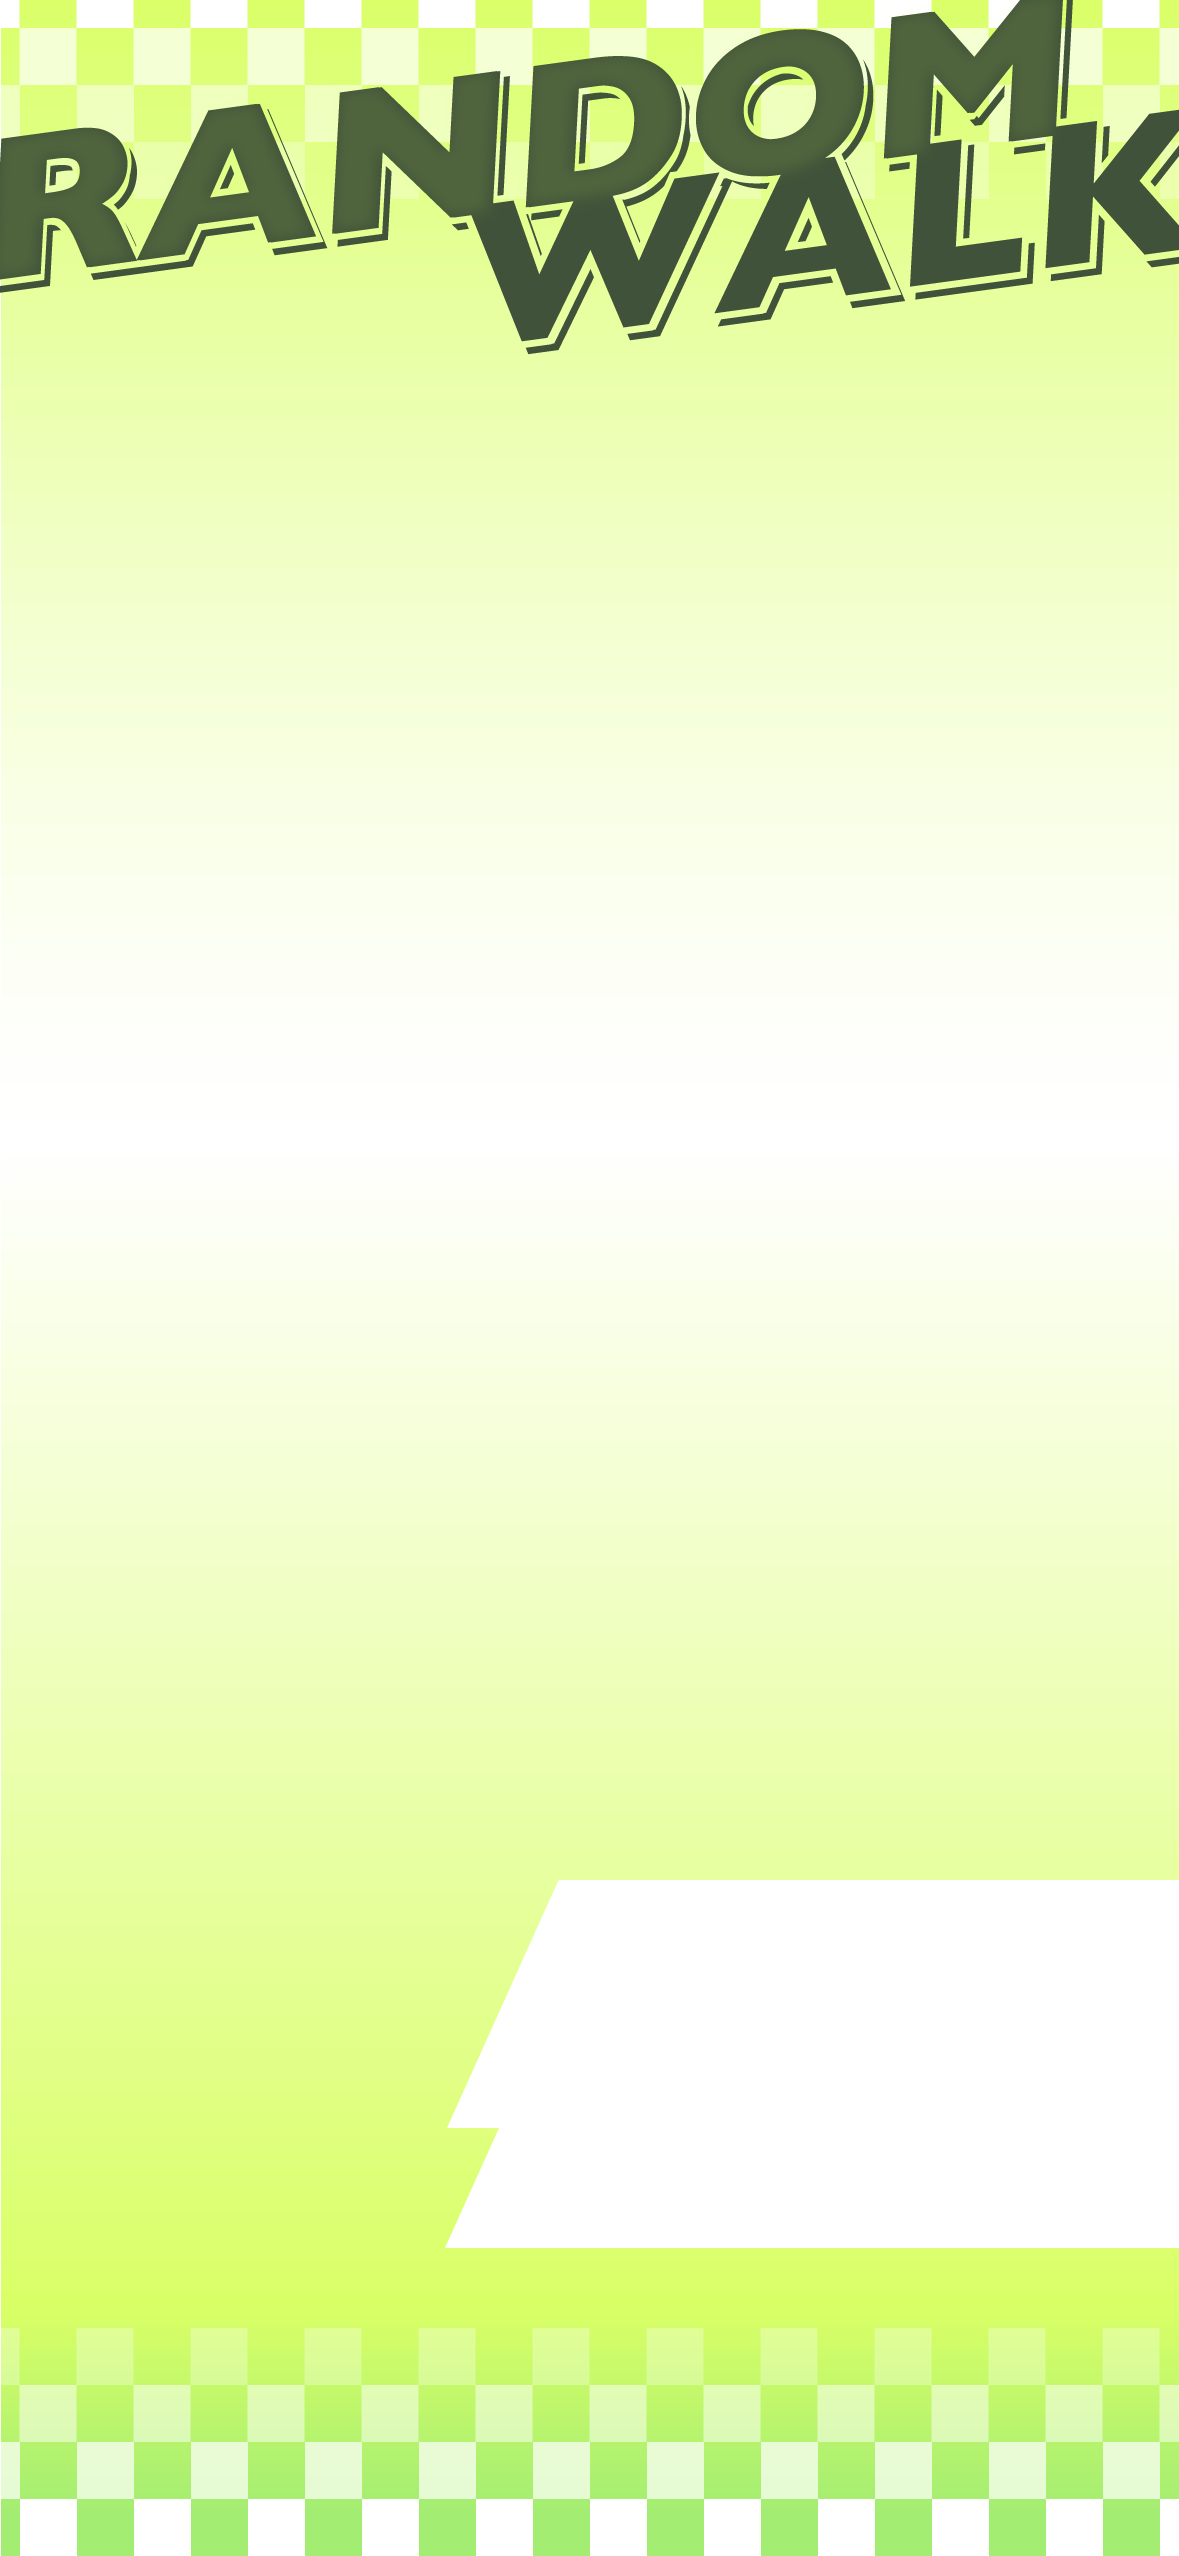
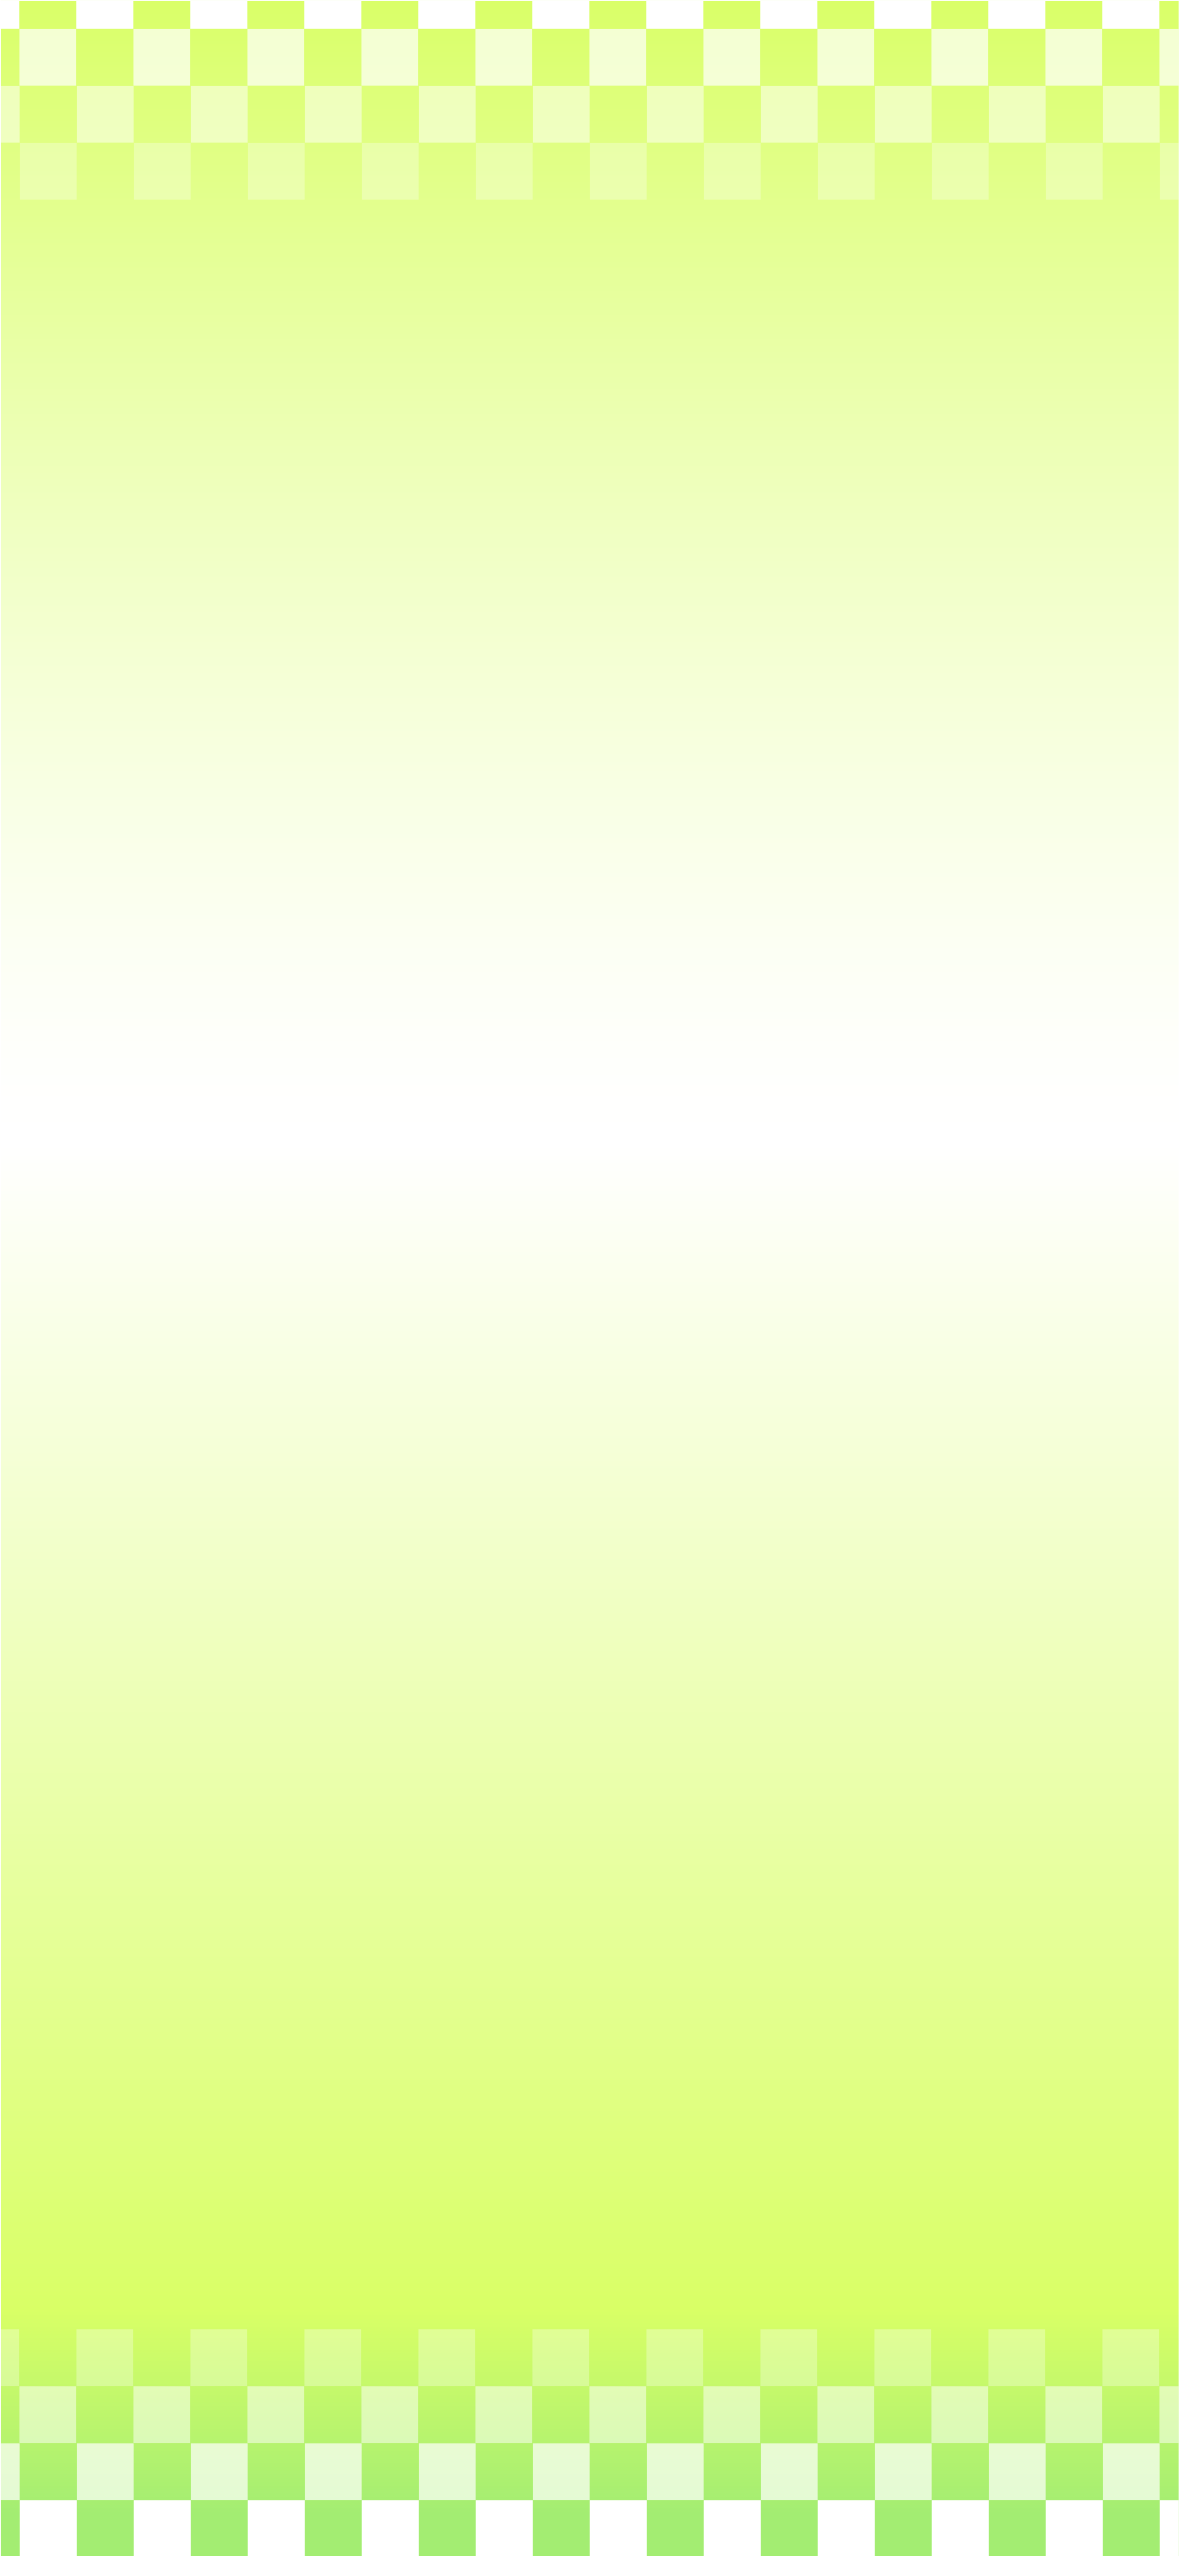
Add files via upload

Changed region(s): [[0.3664, 0.7109, 1.0, 0.8963], [0.0, 0.0, 1.0, 0.1545]]

diff --git a/index.html b/index.html
@@ -2,103 +2,165 @@
 <html lang="ja">
 <head>
   <meta charset="UTF-8" />
-  <meta name="viewport" content="width=device-width, initial-scale=1.0">
-  <title>Random Walk</title>
-  <link rel="manifest" href="/my-walking-app/manifest.json">
+  <meta name="viewport" content="width=device-width, initial-scale=1.0, viewport-fit=cover">
+  <title>おさんぽアプリ</title>
+  <link rel="manifest" href="manifest.json">
+  <link rel="apple-touch-icon" href="icon-192.png">
+  <meta name="apple-mobile-web-app-capable" content="yes">
+  <meta name="apple-mobile-web-app-status-bar-style" content="default">
 
   <style>
     html, body {
       margin: 0;
-      padding: 0;
-      font-family: 'Gill Sans', 'Gill Sans MT', Calibri, 'Trebuchet MS', sans-serif;
-      height: 100vh;  /* 画面の高さに合わせる */
-      color: #2e3d26;
-      text-align: center;
-
-      background-image: url("background.png");
-      background-repeat: no-repeat;   /* 背景は1回だけ */
-      background-position: center top;
-      background-size: cover;          /* 画面いっぱいに広げる */
-      background-attachment: fixed;  /* スクロールしても背景を動かさない */
-
+      padding: env(safe-area-inset-top) env(safe-area-inset-right) env(safe-area-inset-bottom) env(safe-area-inset-left);
+      height: 100vh;
+      font-family: sans-serif;
+      background: url(background.png);
+      overflow: hidden;
     }
 
-    #map {
-      height: 585px;
+    .screen {
+      display: none;
+      flex-direction: column;
+      align-items: center;
+      justify-content: center;
+      height: 100%;
+      text-align: center;
+      padding: 20px;
+    }
+
+    .screen.active {
+      display: flex;
+    }
+    
+    .tittle-route {
+      width: 90%;
+    }
+
+
+
+    #map, #mapFinal {
       width: 90%;
       max-width: 500px;
-      margin: 105px auto 18px auto;
-      border-radius: 20px;
+      height: 80vh;
+      margin: 10px 0;
+      border-radius: 16px;
       box-shadow: 0 4px 10px rgba(0,0,0,0.2);
+
     }
 
     .info-area {
       display: flex;
       justify-content: center;
-      gap: 40px;
-      align-items: center;
-      font-size: 16px;
-      font-weight: bold;
-      margin: 18px;
+      gap: 10px;
+      margin: 20px 0;
     }
 
     .info-block {
-      display: flex;
-      align-items: center;
-      gap: 8px;
+      text-align: center;
     }
 
-    .info-block img {
-      width: 28px;
-      height: 28px;
+    .km-back{
+      width:10vw;
+      height: auto;
+      max-width: 160px;
     }
 
-    .info-block span {
-      font-size: 32px;
+    .steps-back{
+      width:10vw;
+      height: auto;
+      max-width: 160px;
+    }
+    
+    .km-box,.steps-box {
+      margin: 20px 110px 0px 0px;
+      color: #dffe0f;
+      font-size: 50px;
+      font-weight: bold;
+      text-align: right;
     }
 
-    button {
-      background-color: #2e3d26;
-      color: white;
-      padding: 14px 32px;
-      border: none;
-      border-radius: 32px;
-      font-size: 18px;
+
+    .info-btn{
+      margin: 0px 100px;
+    }
+
+    .icon-btn {
+      width: 45%;
+      margin: 10px;
       cursor: pointer;
-      margin-bottom: 40px;
     }
 
-    button:hover {
-      background-color: #405c35;
+    #endBtn {
+      padding: 14px 28px;
+      border-radius: 28px;
+      border: none;
+      margin-top: 20px;
     }
   </style>
 </head>
 <body>
 
+  <!-- スタート画面 -->
+  <div id="startScreen" class="screen active">
+    <img src="tittle-logo.png" id="tittle-logo" class="start_logo" >
+    <img src="start_button.png" id="startRouteBtn" class="icon-btn" alt="ルートを作成する">
+  </div>
 
-  <div id="map">MAP</div>
-
-  <div class="info-area">
-    <div class="info-block">
-      <img src="distance.svg" alt="距離" />
-      <div><span id="distance">0.0</span> KM</div>
+  <!-- ルート作成画面 -->
+  <div id="routeScreen" class="screen">
+    <img src="tittle-logo.png" class="tittle-route" id="tittle-logo">
+    <div id="map">MAP</div>
+    <div class="info-area">
+      <div class="info-block">
+        <img src="km-back.png" alt="距離表示" class="stats-img" />
+        <div class="km-box" id="distance">0.00</div>
+      </div>
+      <div class="info-block">
+        <img src="steps-back.png" alt="距離表示" class="stats-img" />
+        <div class="steps-box" id="steps">0</div>
+      </div>
     </div>
-    <div class="info-block">
-      <img src="steps.svg" alt="歩数" />
-      <div><span id="steps">0</span> STEP</div>
+    <div class="info-btn">
+      <img src="change_route.png" id="changeRouteBtn" class="icon-btn" alt="ルート変更">
+      <img src="confirm_route.png" id="confirmRouteBtn" class="icon-btn" alt="決定">
     </div>
   </div>
 
-  <button id="startBtn">ルート作成</button>
+  <!-- 現在地確認画面 -->
+  <div id="finalScreen" class="screen">
+    <div id="mapFinal">MAP</div>
+    <div class="info-area">
+      <div class="info-block">
+        <img src="km_back.png">
+        <div class="info-distance" id="distanceFinal">0.00</div>
+      </div>
+      <div class="info-block">
+        <img src="steps_back.png" >
+        <div class="info-steps" id="stepsFinal">0</div> 
+      </div>
+    </div>
+    <img src="finish_button.png" id="endBtn" class="icon-btn" alt="終了">
+  </div>
+
+  <!-- Google Maps API（※あなたのAPIキーに変えてね） -->
+  <script src="https://maps.googleapis.com/maps/api/js?key=AIzaSyBgHDP5ocf8VRTKb0Bal1iX0pXK4VmeLvM" defer></script>
 
   <script>
-    let map;
-    let directionsService;
-    let directionsRendererGo;
-
+    let map, mapFinal, directionsService, directionsRendererGo;
     const TARGET_DISTANCE = 3000;
     const TOLERANCE = 500;
-    const MAX_RETRY = 5;
+
+    const screens = {
+      start: document.getElementById("startScreen"),
+      route: document.getElementById("routeScreen"),
+      final: document.getElementById("finalScreen")
+    };
+
+    function showScreen(name) {
+      Object.values(screens).forEach(s => s.classList.remove("active"));
+      screens[name].classList.add("active");
+    }
 
     function moveLatLng(lat, lng, distanceMeters, angleDegrees) {
       const R = 6378137;
@@ -111,8 +173,8 @@
     }
 
     function generateRoute(start, attempt = 1) {
-      if (attempt > MAX_RETRY) {
-        alert("目標距離に合うルートを見つけられませんでした😢");
+      if (attempt > 5) {
+        alert("ルートを生成できませんでした");
         return;
       }
 
@@ -126,27 +188,22 @@
           { location: wp1, stopover: true },
           { location: wp2, stopover: true }
         ],
-        travelMode: google.maps.TravelMode.WALKING,
-        optimizeWaypoints: false
+        travelMode: google.maps.TravelMode.WALKING
       }, (result, status) => {
-        if (status !== "OK") {
-          alert("ルート取得失敗");
-          return;
-        }
+        if (status !== "OK") return;
 
         let total = 0;
-        result.routes[0].legs.forEach(leg => {
-          total += leg.distance.value;
-        });
-
+        result.routes[0].legs.forEach(leg => total += leg.distance.value);
         const km = (total / 1000).toFixed(2);
         const steps = Math.round(total / 100 * 140);
 
         document.getElementById("distance").innerText = km;
         document.getElementById("steps").innerText = steps.toLocaleString();
 
+        document.getElementById("distanceFinal").innerText = km;
+        document.getElementById("stepsFinal").innerText = steps.toLocaleString();
+
         if (Math.abs(total - TARGET_DISTANCE) > TOLERANCE) {
-          console.log("距離がずれているため再生成");
           generateRoute(start, attempt + 1);
           return;
         }
@@ -161,61 +218,68 @@
         return;
       }
 
-      navigator.geolocation.getCurrentPosition(
-        (position) => {
+      navigator.geolocation.getCurrentPosition((position) => {
+        const start = {
+          lat: position.coords.latitude,
+          lng: position.coords.longitude
+        };
+
+        map = new google.maps.Map(document.getElementById("map"), {
+          center: start,
+          zoom: 16
+        });
+
+        new google.maps.Marker({ position: start, map, title: "スタート" });
+
+        directionsService = new google.maps.DirectionsService();
+        directionsRendererGo = new google.maps.DirectionsRenderer({
+          map: map,
+          suppressMarkers: true,
+          polylineOptions: { strokeColor: "blue", strokeWeight: 4 }
+        });
+
+        generateRoute(start);
+      });
+    }
+
+    document.getElementById("startRouteBtn").addEventListener("click", () => {
+      showScreen("route");
+      initMap();
+    });
+
+    document.getElementById("changeRouteBtn").addEventListener("click", () => {
+      if (navigator.geolocation) {
+        navigator.geolocation.getCurrentPosition((position) => {
           const start = {
             lat: position.coords.latitude,
             lng: position.coords.longitude
           };
+          generateRoute(start);
+        });
+      }
+    });
 
-          map = new google.maps.Map(document.getElementById("map"), {
-            center: start,
+    document.getElementById("confirmRouteBtn").addEventListener("click", () => {
+      showScreen("final");
+      if (navigator.geolocation) {
+        navigator.geolocation.getCurrentPosition((position) => {
+          const current = {
+            lat: position.coords.latitude,
+            lng: position.coords.longitude
+          };
+          mapFinal = new google.maps.Map(document.getElementById("mapFinal"), {
+            center: current,
             zoom: 16
           });
-
-          new google.maps.Marker({
-            position: start,
-            map: map,
-            title: "スタート地点"
-          });
-
-          directionsService = new google.maps.DirectionsService();
-
-          directionsRendererGo = new google.maps.DirectionsRenderer({
-            map: map,
-            polylineOptions: {
-              strokeColor: "blue",
-              strokeWeight: 5
-            },
-            suppressMarkers: true
-          });
-
-          generateRoute(start);
-        },
-        () => {
-          alert("位置情報の取得を許可してください");
-        }
-      );
-    }
-  </script>
-
-  <!-- 必ずAPIキーをあなたのものに書き換えてね！ -->
-  <script src="https://maps.googleapis.com/maps/api/js?key=AIzaSyBgHDP5ocf8VRTKb0Bal1iX0pXK4VmeLvM" async defer></script>
-
-  <script>
-    document.getElementById('startBtn').addEventListener('click', initMap);
-  </script>
-  <script>
-    if ('serviceWorker' in navigator) {
-      window.addEventListener('load', function() {
-        navigator.serviceWorker.register('/my-walking-app/sw.js').then(function(registration) {
-          console.log('ServiceWorker registration successful with scope: ', registration.scope);
-        }, function(err) {
-          console.log('ServiceWorker registration failed: ', err);
+          new google.maps.Marker({ position: current, map: mapFinal, title: "現在地" });
         });
-      });
-    }
+      }
+    });
+
+    document.getElementById("endBtn").addEventListener("click", () => {
+      alert("おつかれさまでした！");
+      location.reload(); // アプリ終了風
+    });
   </script>
-  
 </body>
 </html>
